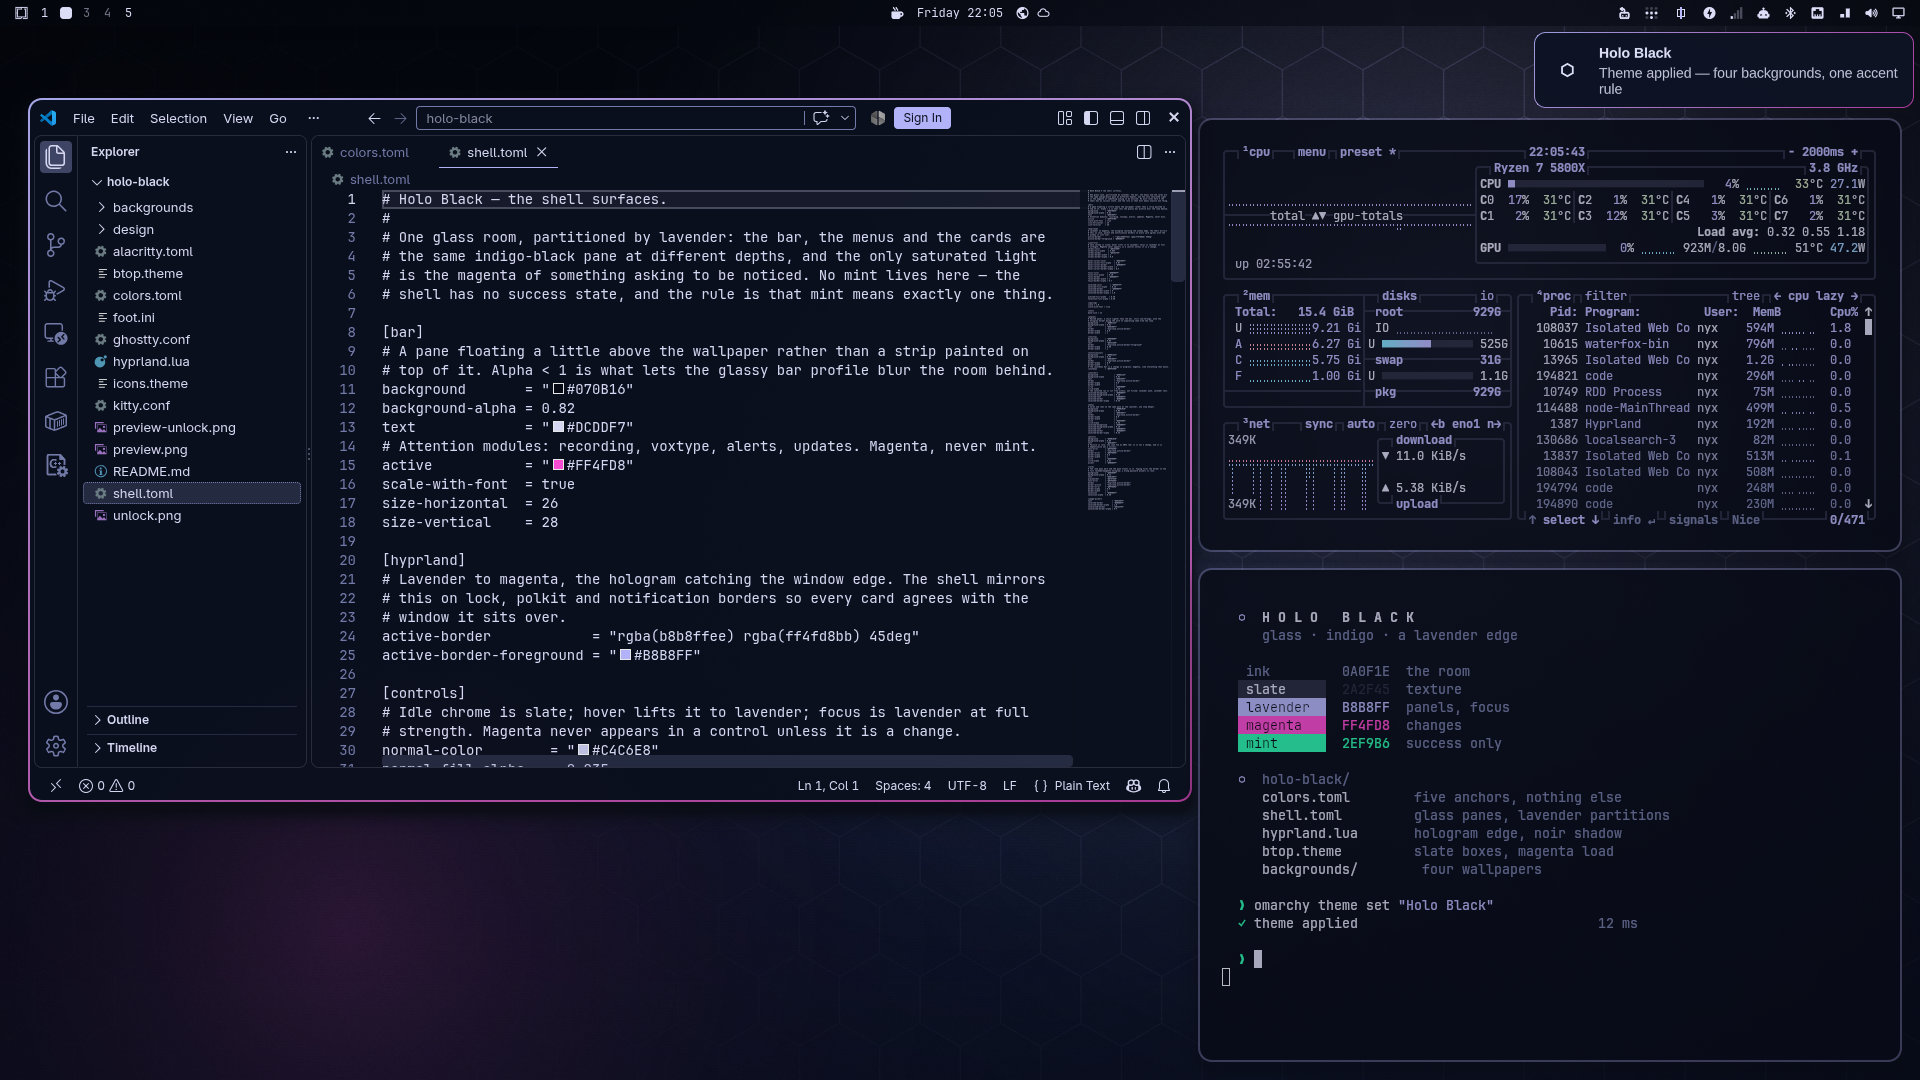
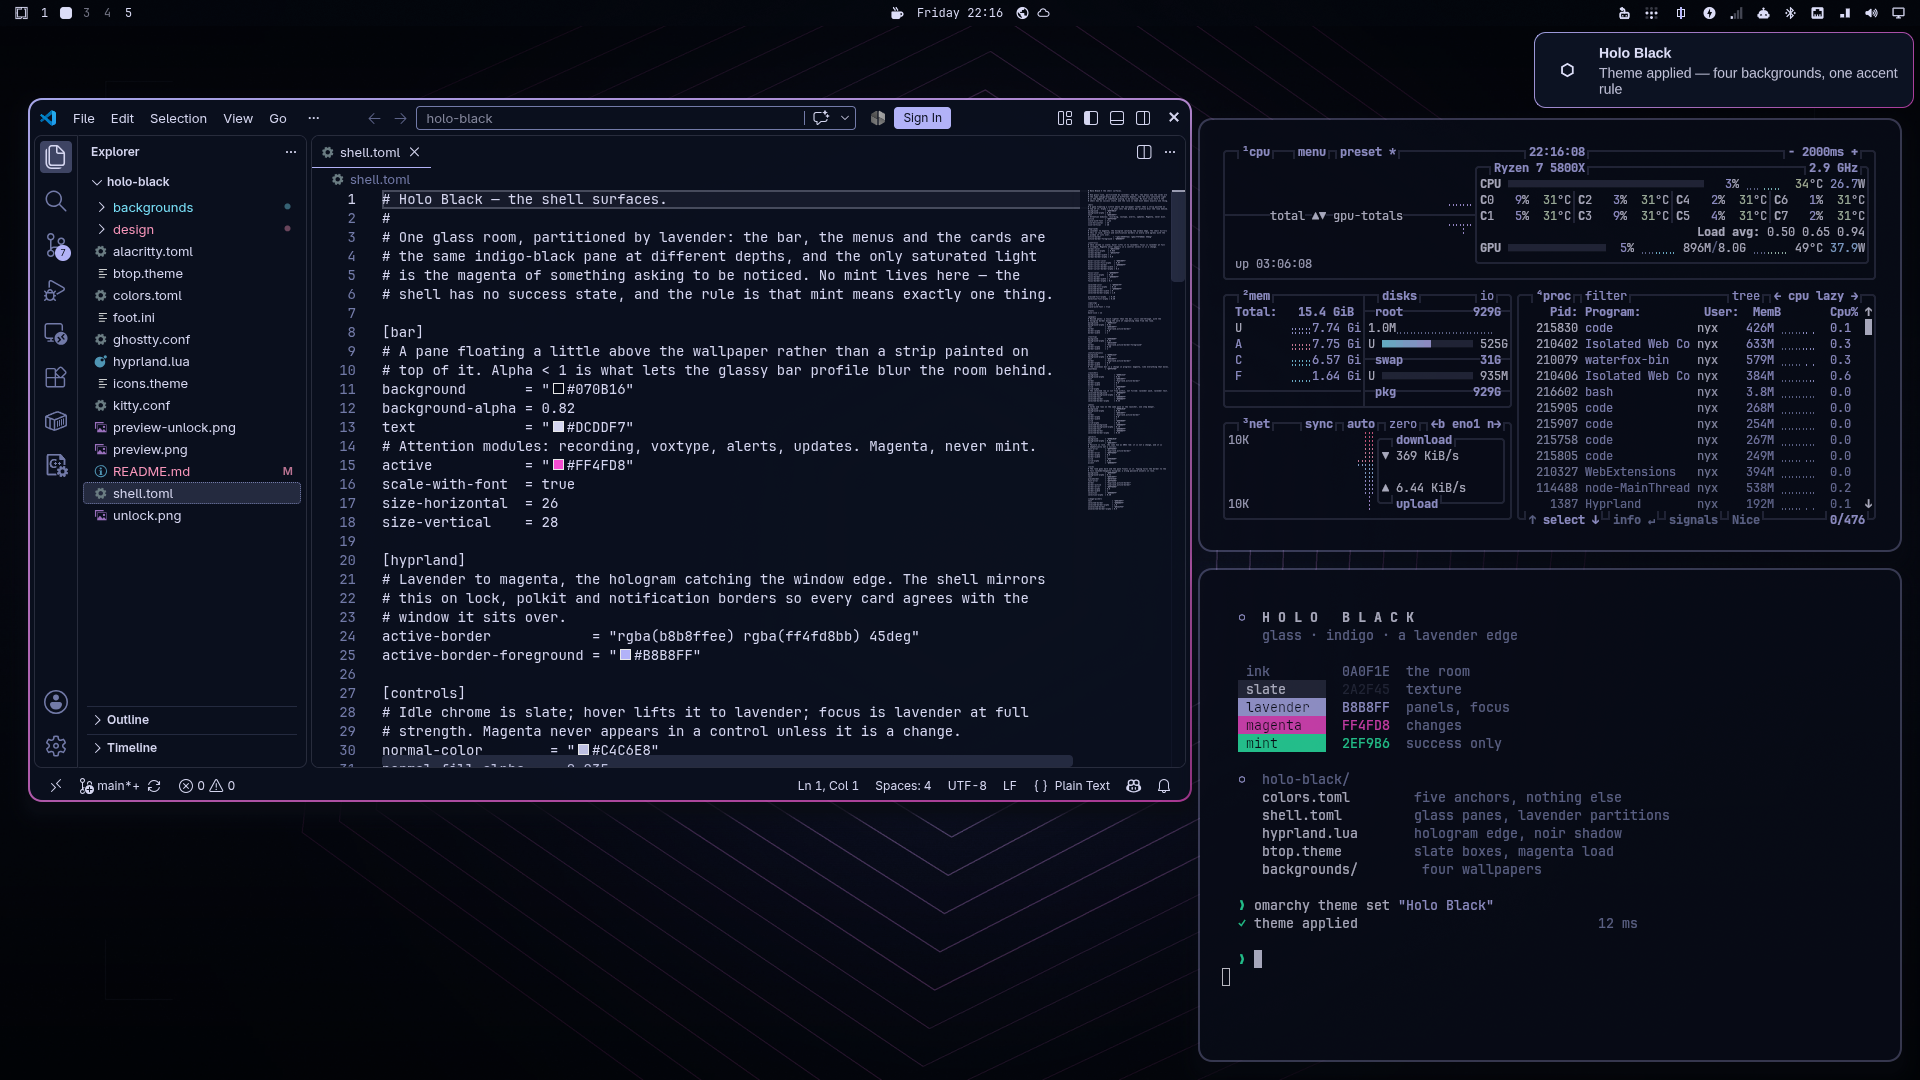
Wallpapers: signal rings lead the set

diff --git a/design/lock_preview.py b/design/lock_preview.py
@@ -78,7 +78,7 @@ def lock_icon(draw: ImageDraw.ImageDraw, x: float, y: float, size: float, colour
 
 def main() -> None:
     # ── Lock-screen concept ────────────────────────────────────────────────
-    background = Image.open(THEME / "backgrounds" / "02-noir-hex.png").convert("RGB")
+    background = Image.open(THEME / "backgrounds" / "01-signal-hex.png").convert("RGB")
     background = background.resize((1920, 1080), Image.Resampling.LANCZOS)
     background = background.filter(ImageFilter.GaussianBlur(2.4))
     background = ImageChops.multiply(background, Image.new("RGB", background.size, (120, 120, 132)))

diff --git a/design/wallpapers.py b/design/wallpapers.py
@@ -413,10 +413,10 @@ def signal_hex(size: tuple[int, int]) -> Image.Image:
 
 
 WALLPAPERS = {
-    "01-holo-lattice.png": holo_lattice,
-    "02-noir-hex.png": noir_hex,
-    "03-lavender-veil.png": lavender_veil,
-    "04-signal-hex.png": signal_hex,
+    "01-signal-hex.png": signal_hex,
+    "02-holo-lattice.png": holo_lattice,
+    "03-noir-hex.png": noir_hex,
+    "04-lavender-veil.png": lavender_veil,
 }
 
 

diff --git a/README.md b/README.md
@@ -91,7 +91,7 @@ what makes magenta read as an event rather than decoration.
 | `kitty.conf`, `ghostty.conf`, `alacritty.toml`, `foot.ini` | Terminal palettes and opacity. |
 | `btop.theme` | Slate boxes, lavender throughput, magenta load; no mint. |
 | `icons.theme` | `Yaru-purple-dark`. |
-| `backgrounds/` | Four 2560×1440 wallpapers: lattice, noir ring, lavender veil, signal. |
+| `backgrounds/` | Four 2560×1440 wallpapers. The signal rings are the default; lattice, noir ring and lavender veil follow. |
 | `unlock.png` | The Omarchy wordmark in lavender, for Plymouth. |
 | `preview.png`, `preview-unlock.png` | The desktop and the lock screen. |
 | `design/wallpapers.py` | Regenerates the four wallpapers from the five anchors. |
